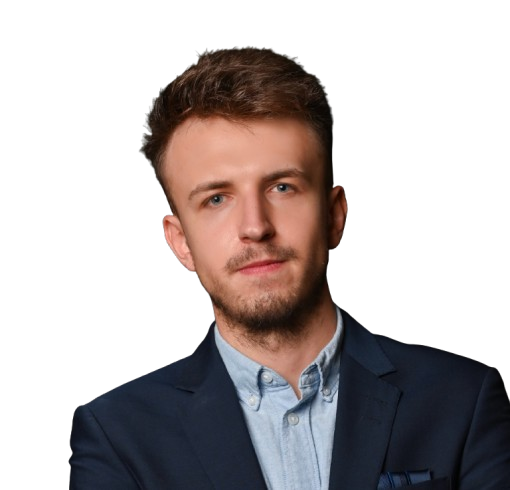
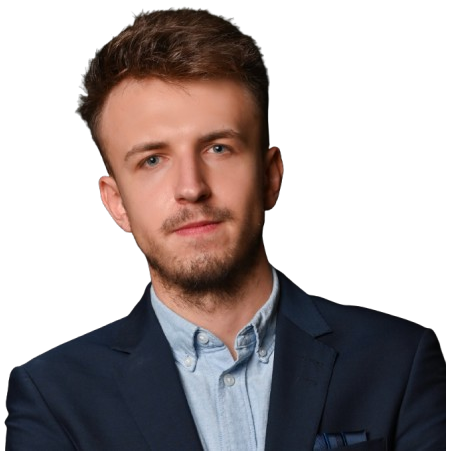
Replaced overview picture with the profile picture

diff --git a/web_pages/main_page.py b/web_pages/main_page.py
@@ -19,26 +19,9 @@ st.markdown("""
 
 
 
-profile_photo_part, divider_part, title_section_filler_part_1, title_part, title_section_filler_part_2 = st.columns([1.1, 0.1, 0.1, 4, 3])
 
-with profile_photo_part:
-    st.image("images/profile_picture.png", width=150)
-
-with divider_part:
-    st.markdown(
-        """
-        <div style="
-            height: 150px;
-            border-left: 4px solid white;
-            margin: 0 auto;
-        "></div>
-        """,
-        unsafe_allow_html=True
-    )
-
-with title_part:
-    st.markdown(f'<div class="title-font">JAROSLAV PETRÁK</div>', unsafe_allow_html=True)
-    st.markdown('<div class="subtitle-font">Data Scientist & Analyst</div>', unsafe_allow_html=True)
+st.markdown(f'<div class="title-font">JAROSLAV PETRÁK</div>', unsafe_allow_html=True)
+st.markdown('<div class="subtitle-font">Data Scientist & Analyst</div>', unsafe_allow_html=True)
 
 
 st.markdown("""
@@ -104,7 +87,7 @@ if st.session_state.selected_section != "Experience" and st.session_state.select
                     """, unsafe_allow_html=True)
     ### PICTURE PART OF THE OVERVIEW SECTION ###    
     with main_content_overview_picture_part:
-        st.image("images/profile_overview_icon.png", width=200)
+            st.image("images/profile_picture.png", width=200, use_container_width = False)
 
     ### EDUCATION SECTION ###  
     main_content_education_text_part, education_filler_part, main_content_education_picture_part = st.columns([11, 1, 3], gap="small")
@@ -113,7 +96,7 @@ if st.session_state.selected_section != "Experience" and st.session_state.select
         st.title("Education")
         st.markdown("""
                     <div style='color: white;'>
-                    • <a href="https://www.muvs.cvut.cz/en/prospective-students/master-of-science/" target="_blank" rel="noopener noreferrer" style="text-decoration: none; color: #ff5757; font-weight: bold;">Czech Technical University in Prague (CTU)</a> - Project Management of Innovations (Ing./MSc.) - Current average 1.3 (A grade)
+                    • <a href="https://www.muvs.cvut.cz/en/prospective-students/master-of-science/" target="_blank" rel="noopener noreferrer" style="text-decoration: none; color: #ff5757; font-weight: bold;">Czech Technical University in Prague (CTU)</a> - Project Management of Innovations (Ing./MSc.) - Current average A
                     </div>
                     """, unsafe_allow_html=True)
         st.markdown("""
@@ -123,7 +106,7 @@ if st.session_state.selected_section != "Experience" and st.session_state.select
                     """, unsafe_allow_html=True)
         st.markdown("""
                     <div style='color: white;'>
-                    • <a href="https://www.muvs.cvut.cz/en/prospective-students/prospective-bachelor/" target="_blank" rel="noopener noreferrer" style="text-decoration: none; color: #ff5757; font-weight: bold;">Czech Technical University in Prague (CTU)</a> - Economics & Management (Bc./BSc.) - Graduated with distinction with total average of 1.06 (nearly perfect A grade)
+                    • <a href="https://www.muvs.cvut.cz/en/prospective-students/prospective-bachelor/" target="_blank" rel="noopener noreferrer" style="text-decoration: none; color: #ff5757; font-weight: bold;">Czech Technical University in Prague (CTU)</a> - Economics & Management (Bc./BSc.) - Graduated with distinction
                     </div>
                     """, unsafe_allow_html=True)
     
